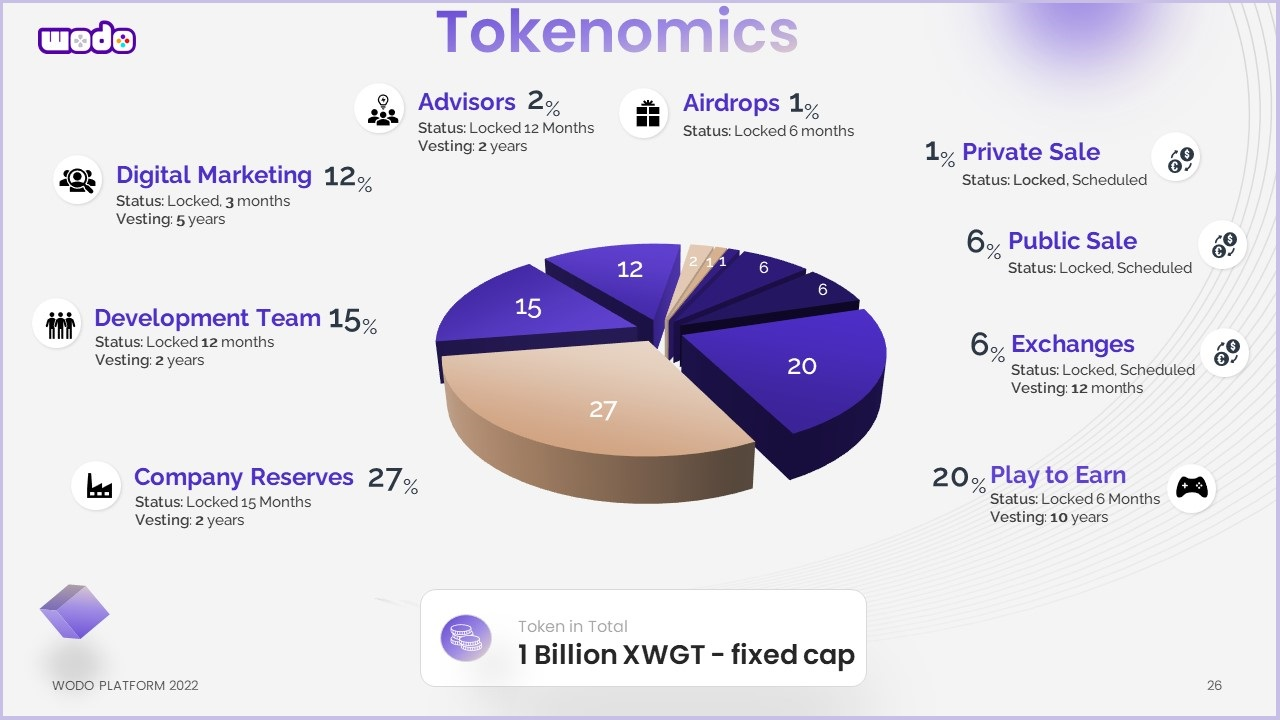
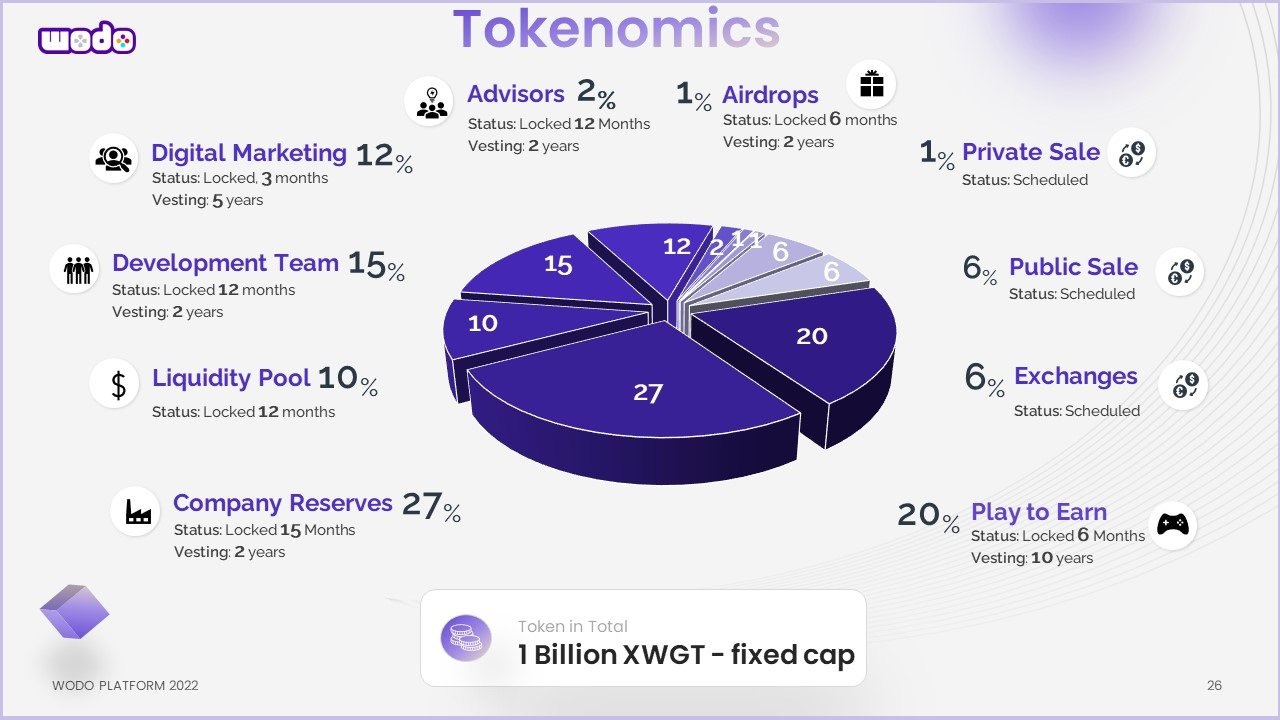
GitBook: [#392] No subject

diff --git a/docs/tokenomics/wodo-gaming-token/README.md b/docs/tokenomics/wodo-gaming-token/README.md
@@ -20,9 +20,9 @@ The hard-capped total supply is **1.000.000.000.**
 * Company reserve: **27%** **-->** **locked till `01 April, 2023`, released over `2` years period**
 * Team: **15%** **-->** **locked till `01 February, 2023`, released over `2` years period**
 * Advisors: **2%** **-->** **locked till `01 January, 2023`, released over `2` years period**
-* Private sale: **1%**  **-->** **locked till `01 August, 2023`**
-* Public Sale: **6%**  **-->** **locked till `01 August, 2023`**
-* Exchange Listing: **6%**  **-->** **No lock**
+* Private sale: **1%** &#x20;
+* Public Sale: **6%** &#x20;
+* Exchange Listing: **6%** &#x20;
 * Marketing & Social media: **12%** **-->** **locked till `01 April, 2022`, released over `5` years period**
 * Liquidity pool: **10%** **-->** **locked till `01 January, 2023`**
 * Airdrop: **1%** **-->** **locked till `01 August, 2023`, released over `2` years period**
